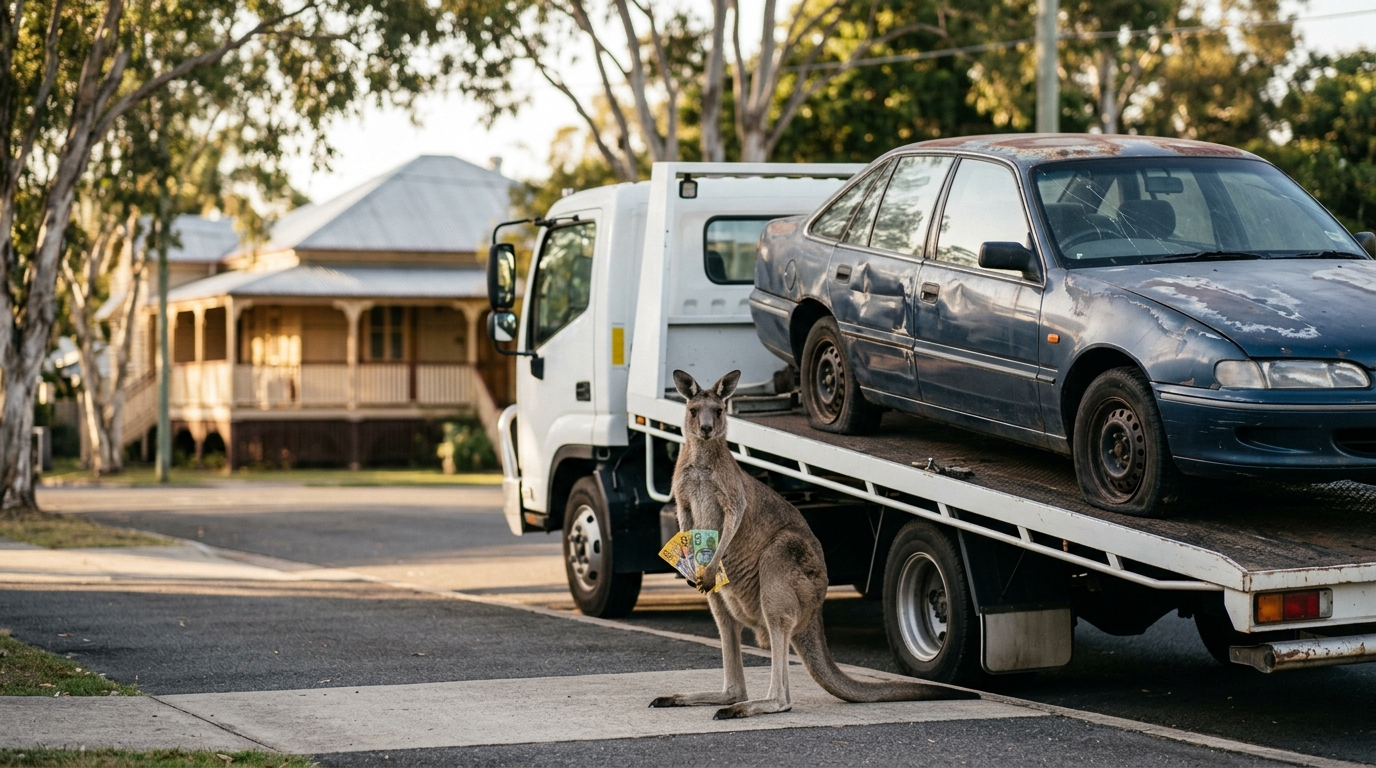
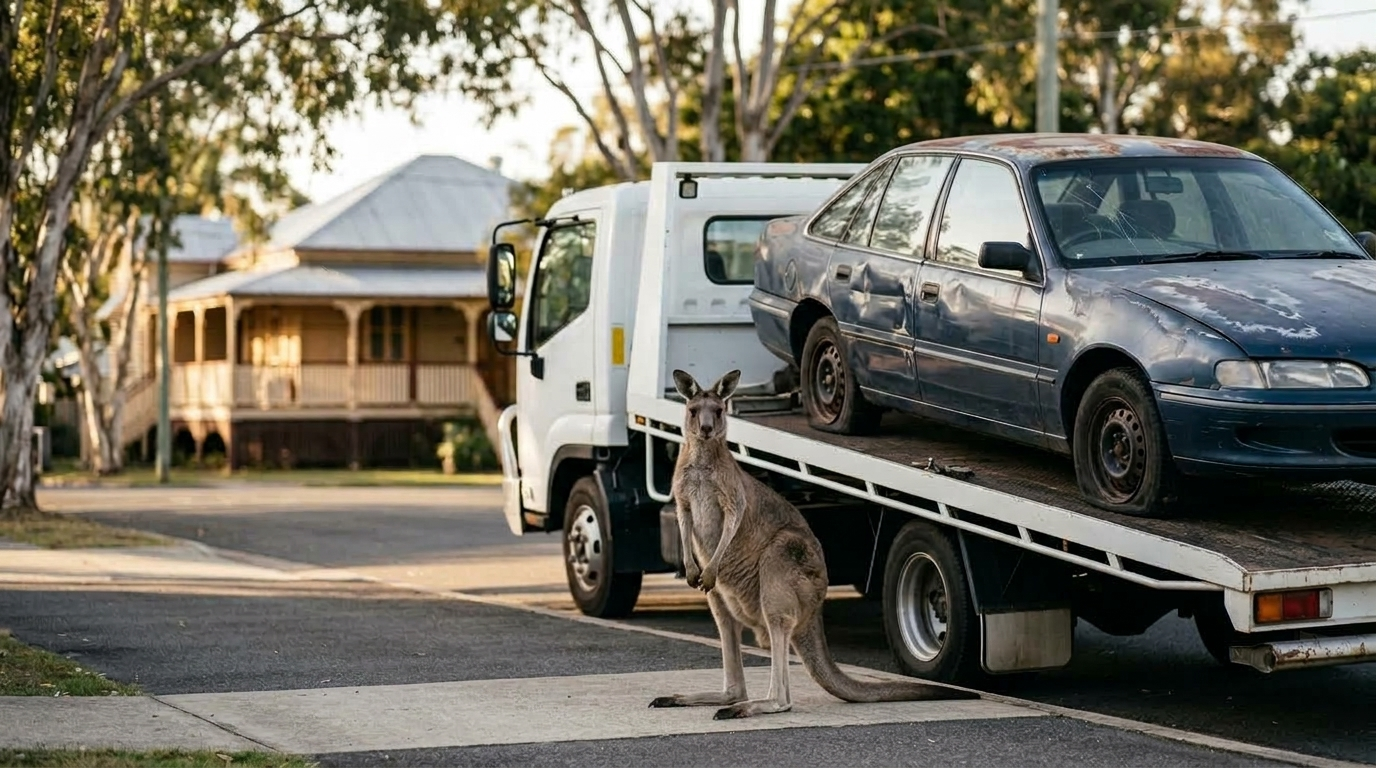
Hero photo: remove the cash from the kangaroo's paws

Changed region(s): [[0.4688, 0.6875, 0.5312, 0.7812]]

diff --git a/src/components/Hero.tsx b/src/components/Hero.tsx
@@ -15,7 +15,7 @@ export function Hero({ where, title, lead, sub }: { where?: string; title?: stri
       <div className="absolute inset-x-0 top-0 -z-10 max-sm:-top-14 h-[360px] min-[400px]:h-[380px] sm:h-[440px] md:inset-0 md:h-auto">
         <Image
           src={heroPhoto}
-          alt="A kangaroo holding Australian cash beside a tow truck carrying an old broken-down car"
+          alt="A kangaroo beside a tow truck carrying an old broken-down car"
           fill
           preload
           sizes="100vw"
